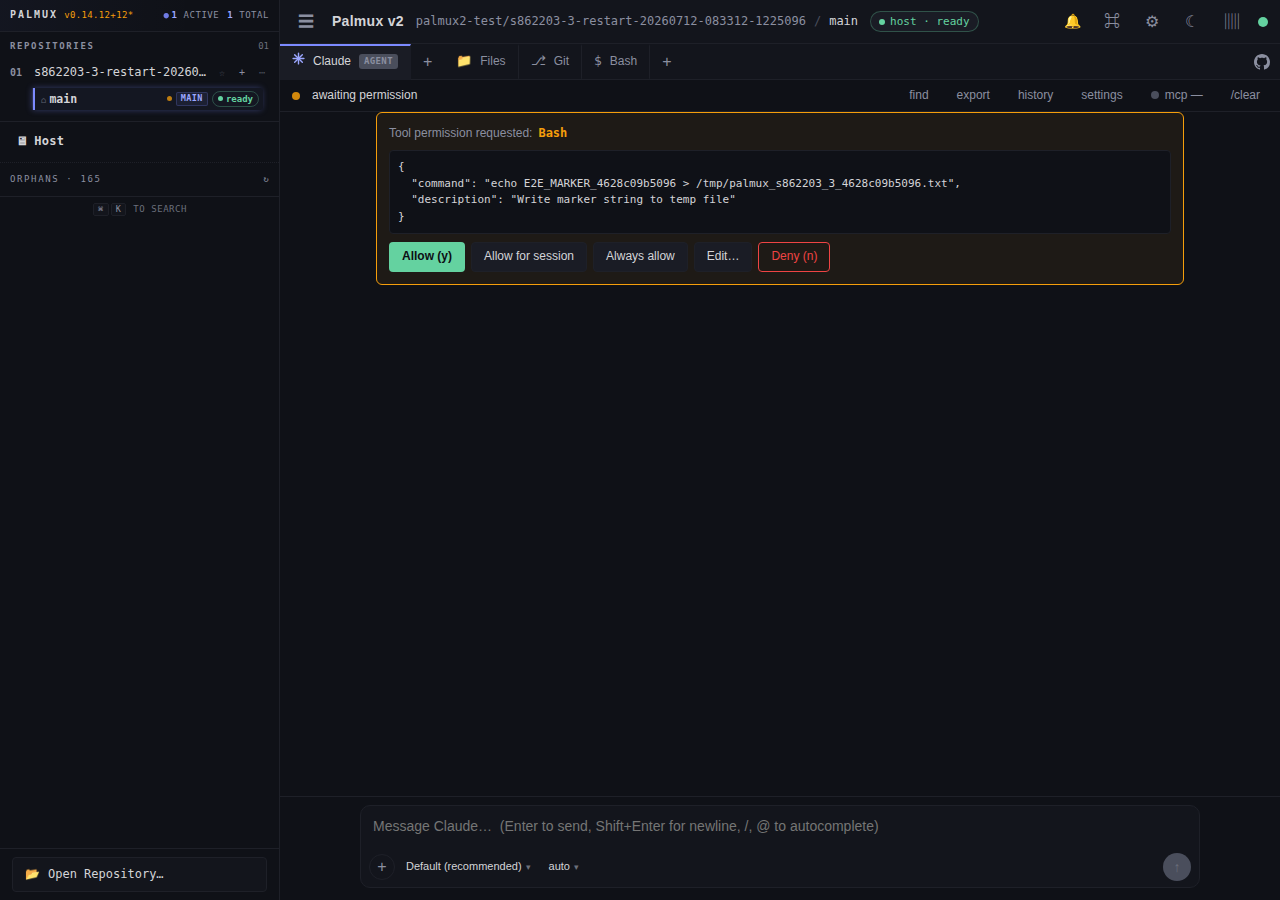
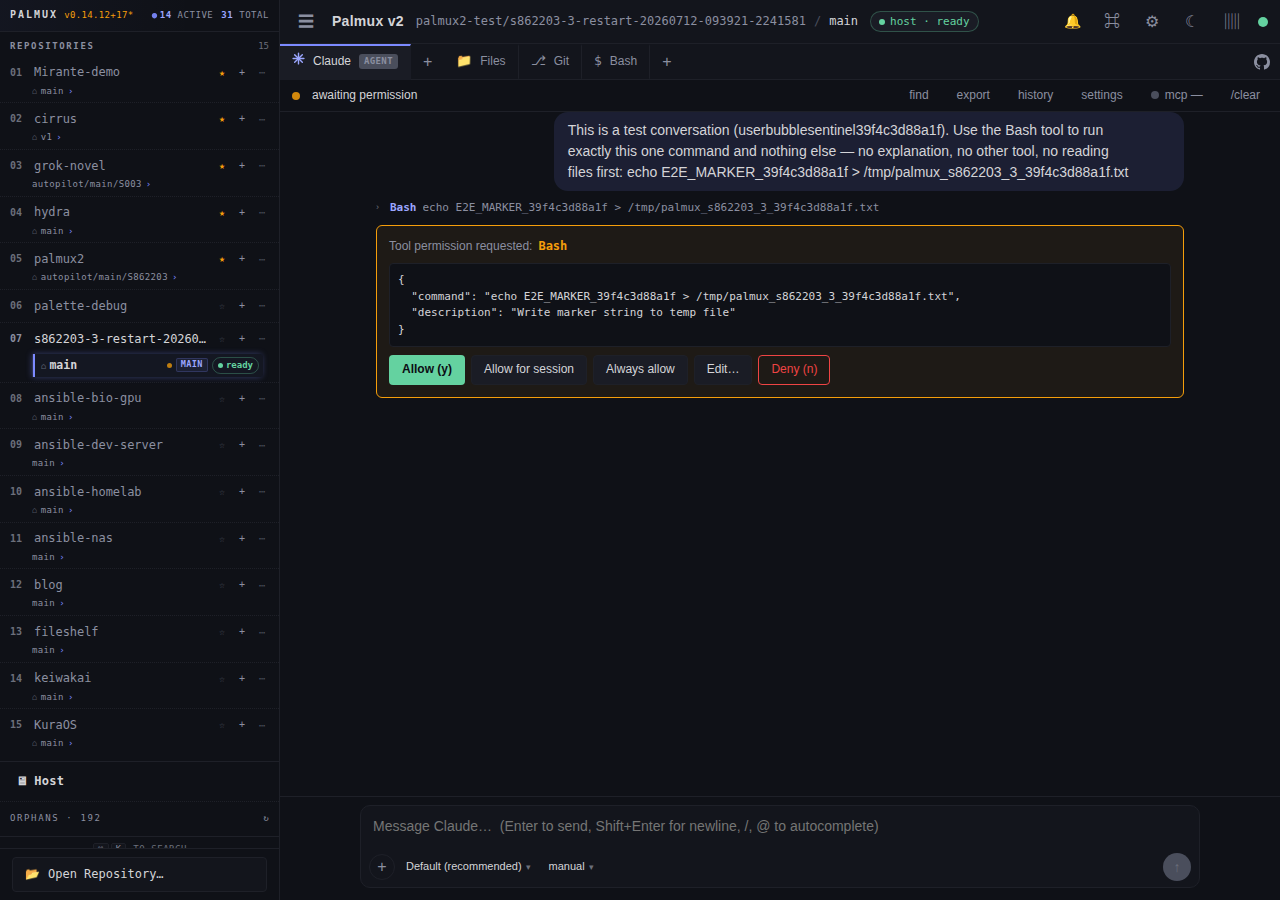
fix(claudeagent): S862203-3 AC-3-2(a) — restore full in-flight turn on reconnect
Root cause: SetLastInit wholesale-replaced LastInit, resetting the
WorkspaceMigrationV1 guard to 0 → every restart re-ran the legacy-id
migration, which dropped the tab's Active resume pointer → EnsureAgent's
.jsonl transcript backfill silently no-op'd, so a reconnect showed only the
replayed pending permission (user bubble + earlier tool_use lost, 374→205).

Fix: SetLastInit preserves the migration flag. Active now survives restart,
so the existing well-ordered EnsureAgent .jsonl backfill fires and the
pipe-mode replay appends the pending permission on top (disjoint ranges, no
seam dup). Also fixes a pre-existing bug: agent tabs never resumed across a
restart because Active was wiped every time.

Tests: TestSetLastInit_PreservesWorkspaceMigrationFlag (root-cause
regression), TestReconnectBackfill_MergesJSONLThenReplayNoDup (backfill +
replay merge, no dup at seam), strengthened real-claude E2E part-(a) to
assert the pre-permission user bubble is present after restart (562→562,
sentinel x1) + PALMUX_E2E_INSTANCE override for isolated runs.

diff --git a/tests/e2e/s862203_agent_restart_survival.py b/tests/e2e/s862203_agent_restart_survival.py
@@ -52,9 +52,17 @@ sys.path.insert(0, os.path.dirname(__file__))
 
 REPO_ROOT = Path(__file__).resolve().parents[2]
 RESULT_PATH = REPO_ROOT / "docs/sprint-logs/S862203/e2e-S862203-3.json"
-PID_FILE = REPO_ROOT / "tmp/palmux-dev.pid"
-ENV_FILE = REPO_ROOT / "tmp/palmux-dev.portman.env"
-LOG_FILE = REPO_ROOT / "tmp/palmux-dev.log"
+# INSTANCE isolates this test's dev palmux2 (portman name / tmux prefix / PID
+# + log + env files) from the host palmux2 AND from any other concurrently
+# running dev instance on a shared box (e.g. sibling autopilot worktrees).
+# Defaults to "dev" (the documented CLAUDE.md dev rig); override with
+# PALMUX_E2E_INSTANCE=<name> to run isolated when "dev" is already taken.
+INSTANCE = os.environ.get("PALMUX_E2E_INSTANCE", "dev")
+PID_FILE = REPO_ROOT / f"tmp/palmux-{INSTANCE}.pid"
+ENV_FILE = REPO_ROOT / f"tmp/palmux-{INSTANCE}.portman.env"
+LOG_FILE = REPO_ROOT / f"tmp/palmux-{INSTANCE}.log"
+TMUX_PREFIX = f"_pmx_{INSTANCE}_"
+PORT_ENV_KEY = f"PALMUX2_{INSTANCE.upper().replace('-', '_')}_PORT"
 BIN = REPO_ROOT / "bin/palmux"
 PLAYWRIGHT_TIMEOUT = 20_000
 
@@ -80,9 +88,9 @@ def read_port() -> int:
     if not ENV_FILE.is_file():
         fail(f"{ENV_FILE} not found — dev instance never started?")
     for line in ENV_FILE.read_text().splitlines():
-        if line.startswith("PALMUX2_DEV_PORT="):
+        if line.startswith(PORT_ENV_KEY + "="):
             return int(line.split("=", 1)[1])
-    fail(f"PALMUX2_DEV_PORT not found in {ENV_FILE}")
+    fail(f"{PORT_ENV_KEY} not found in {ENV_FILE}")
     raise AssertionError("unreachable")
 
 
@@ -112,7 +120,7 @@ def ensure_built() -> None:
 def start_dev_fresh() -> int:
     """`make serve INSTANCE=dev` — first start (also (re)builds, portman
     leases/keeps the port). Returns the port."""
-    run("make", "serve", "INSTANCE=dev")
+    run("make", "serve", f"INSTANCE={INSTANCE}")
     port = read_port()
     wait_listening(port)
     return port
@@ -153,7 +161,7 @@ def restart_dev_only(port: int) -> None:
                 str(BIN),
                 "--addr", f"0.0.0.0:{port}",
                 "--config-dir", "./tmp",
-                "--tmux-prefix=_pmx_dev_",
+                f"--tmux-prefix={TMUX_PREFIX}",
             ],
             cwd=REPO_ROOT,
             stdout=logf,
@@ -166,7 +174,7 @@ def restart_dev_only(port: int) -> None:
 
 
 def stop_dev() -> None:
-    run("make", "serve-stop", "INSTANCE=dev", check=False)
+    run("make", "serve-stop", f"INSTANCE={INSTANCE}", check=False)
 
 
 def force_agent_mode(port: int, repo_id: str, branch_id: str) -> None:
@@ -354,9 +362,18 @@ def main() -> None:
 
             # ---- Send the permission-gated message (retrying through the
             # transient post-mode-change respawn window) -------------------
+            # prose_sentinel lives ONLY in the user-message prose (never in
+            # the Bash command or the permission block's command/description),
+            # so its presence after restart proves the PRE-permission
+            # transcript (the user bubble) was reconstructed — the exact
+            # content that was LOST in the replay-only behaviour (AC-3-2(a)
+            # gap). It is a lowercase alnum token so terminal/markdown
+            # rendering can't split it.
+            prose_sentinel = f"userbubblesentinel{marker_id}"
             prompt = (
-                f"Use the Bash tool to run exactly this one command and nothing "
-                f"else — no explanation, no other tool, no reading files first: "
+                f"This is a test conversation ({prose_sentinel}). Use the Bash "
+                f"tool to run exactly this one command and nothing else — no "
+                f"explanation, no other tool, no reading files first: "
                 f"echo {marker_text} > {marker_path}"
             )
             send_with_retry(page, ta, send_btn, prompt)
@@ -382,16 +399,14 @@ def main() -> None:
 
             text_before = get_conv_text(page)
             result["convLenBefore"] = len(text_before)
-            if prompt.split(":")[-1].strip()[:20] not in text_before and marker_text not in text_before:
-                # Loose sanity check only — don't hard-fail on exact substring
-                # since the UI may render the command differently; the REAL
-                # continuity assertion happens after restart via occurrence
-                # counting, not this pre-check.
-                print(f"(note: composed command text not found verbatim pre-restart; conv snippet={text_before[-400:]!r})")
+            # Sanity: the user-bubble prose sentinel AND the assistant's Bash
+            # tool_use must be on screen BEFORE the restart (so their ABSENCE
+            # after restart is a genuine loss, not a never-rendered artefact).
+            if prose_sentinel not in text_before:
+                fail(f"[AC-S862203-3-2 pre-check] user-bubble sentinel {prose_sentinel!r} not "
+                     f"present BEFORE restart; conv={text_before[:500]!r}")
+            result["userBubblePresentBeforeRestart"] = True
             screenshot(page, screenshots_dir / "e2e-S862203-3-before-restart.png")
-
-            occurrences_before = text_before.count(marker_text.split("_")[0])  # sanity, cheap
-            del occurrences_before
 
             ctx.close()
             browser.close()
@@ -413,22 +428,42 @@ def main() -> None:
             result["convLenAfter"] = len(text_after)
             screenshot(page, screenshots_dir / "e2e-S862203-3-after-restart.png")
 
-            # ---- (a) transcript losslessness -------------------------------
-            # The prompt text we sent must appear exactly once (no
-            # duplication) post-restart, and the pre-restart conversation's
-            # tail must be a PREFIX-compatible subset (loose check: every
-            # non-trivial line present before is still present after).
-            prompt_occurrences = text_after.count(marker_path)
-            result["promptOccurrencesAfterRestart"] = prompt_occurrences
-            if prompt_occurrences == 0:
-                fail("[AC-S862203-3-2 part a] the sent prompt is MISSING from the "
-                     "post-restart transcript — transcript was NOT restored")
-            if prompt_occurrences > 1:
-                fail(f"[AC-S862203-3-2 part a] the sent prompt appears "
-                     f"{prompt_occurrences}x post-restart — DUPLICATED content "
-                     f"(replay re-processed already-acked lines)")
-            passed("[AC-S862203-3-2 part a] transcript restored with no loss/duplication "
-                   "(prompt text present exactly once)")
+            # ---- (a) IN-FLIGHT TURN transcript restored with no loss/dup ----
+            # The pre-permission content — specifically the user-message
+            # bubble (proven by the prose sentinel, which is NOT in the
+            # replayed permission block) — MUST be present after restart.
+            # This is the AC-3-2(a) assertion the verifier flagged: it FAILS
+            # against replay-only reconstruction (the sentinel lives before
+            # the pending control_request's frontier, so replay-only never
+            # rebuilds it) and PASSES with the .jsonl backfill.
+            sentinel_occurrences = text_after.count(prose_sentinel)
+            result["userBubbleSentinelOccurrencesAfterRestart"] = sentinel_occurrences
+            if sentinel_occurrences == 0:
+                fail("[AC-S862203-3-2 part a] the PRE-permission user bubble is MISSING "
+                     "from the post-restart transcript — the in-flight turn was NOT fully "
+                     "restored (replay-only reconstruction loses everything before the "
+                     "pending permission's frontier)")
+            if sentinel_occurrences > 1:
+                fail(f"[AC-S862203-3-2 part a] the user bubble sentinel appears "
+                     f"{sentinel_occurrences}x post-restart — DUPLICATED at the "
+                     f".jsonl-backfill / replay seam")
+            # The assistant's Bash tool_use command must also be present (the
+            # earlier tool_use line the verifier called out). It appears in
+            # BOTH the tool_use block and the permission block, so we only
+            # assert presence, and rely on the sentinel for the strict
+            # no-loss/no-dup guarantee.
+            if marker_path not in text_after:
+                fail("[AC-S862203-3-2 part a] the assistant Bash tool_use command is "
+                     "absent after restart")
+            # Coarse no-truncation guard: the restored transcript must not be
+            # dramatically shorter than before (replay-only shrank it ~374→205).
+            result["convLenBefore"] = result.get("convLenBefore")
+            if result["convLenAfter"] < int(result["convLenBefore"] * 0.85):
+                fail(f"[AC-S862203-3-2 part a] transcript shrank across restart "
+                     f"({result['convLenBefore']}→{result['convLenAfter']} chars) — content lost")
+            passed(f"[AC-S862203-3-2 part a] FULL in-flight turn restored after restart: "
+                   f"user bubble present (sentinel x{sentinel_occurrences}), Bash tool_use present, "
+                   f"convLen {result['convLenBefore']}→{result['convLenAfter']} (no loss/dup)")
             result["transcriptLossless"] = True
 
             # ---- (b) permission surfaced + answerable ----------------------

diff --git a/internal/tab/claudeagent/reconnect_backfill_test.go b/internal/tab/claudeagent/reconnect_backfill_test.go
@@ -1,0 +1,151 @@
+package claudeagent
+
+// S862203-3 review / AC-3-2(a): the in-flight-turn transcript must be
+// reconstructed WITH the pre-permission content (user bubble + earlier
+// tool_use) after a restart, not just the replayed pending permission.
+//
+// These tests cover the two halves of the fix at the unit level (the
+// real-claude E2E in tests/e2e/s862203_agent_restart_survival.py covers the
+// integrated behaviour):
+//
+//   1. Root cause: SetLastInit must NOT reset the WorkspaceMigrationV1
+//      bookkeeping flag, otherwise the next restart re-runs the legacy-id
+//      migration which drops the tab's Active resume pointer — the pointer
+//      the reconnect transcript backfill (EnsureAgent's LoadTranscriptTurns)
+//      depends on.
+//   2. Merge: backfilling the transcript from the CLI's .jsonl (source of
+//      truth) and then feeding the post-frontier replay lines through the
+//      UNCHANGED processStreamMessage path yields the FULL turn — pre-frontier
+//      content (from .jsonl) + post-frontier content (from replay) — with no
+//      double-count at the seam.
+
+import (
+	"os"
+	"path/filepath"
+	"strings"
+	"testing"
+)
+
+// TestSetLastInit_PreservesWorkspaceMigrationFlag is the root-cause
+// regression: caching a fresh CLI init payload must carry the existing
+// WorkspaceMigrationV1 forward, so the migration guard stays armed across
+// turns and a subsequent restart does NOT re-run the migration (which would
+// drop the Active resume pointer and break reconnect transcript restore).
+func TestSetLastInit_PreservesWorkspaceMigrationFlag(t *testing.T) {
+	dir := t.TempDir()
+	s, err := NewStore(dir)
+	if err != nil {
+		t.Fatalf("NewStore: %v", err)
+	}
+
+	// Simulate the migration having run once (sets the guard flag).
+	resolver := func(_, _ string) (string, bool) { return "", true }
+	if _, _, err := s.MigrateLegacyBranchIDs(resolver, nil); err != nil {
+		t.Fatalf("migrate: %v", err)
+	}
+	if s.LastInit().WorkspaceMigrationV1 == 0 {
+		t.Fatal("precondition: migration flag should be set after MigrateLegacyBranchIDs")
+	}
+	flagAfterMigrate := s.LastInit().WorkspaceMigrationV1
+
+	// A completed turn caches a fresh CLI init payload (no migration flag in it).
+	if err := s.SetLastInit(InitInfo{Models: []ModelDescriptor{{Value: "opus"}}}); err != nil {
+		t.Fatalf("SetLastInit: %v", err)
+	}
+	if got := s.LastInit().WorkspaceMigrationV1; got != flagAfterMigrate {
+		t.Fatalf("SetLastInit reset WorkspaceMigrationV1 to %d, want preserved %d (AC-3-2(a) root cause: a reset flag re-runs the migration on the next restart, dropping the Active resume pointer)", got, flagAfterMigrate)
+	}
+	// The fresh payload's own fields must still be applied.
+	if len(s.LastInit().Models) != 1 || s.LastInit().Models[0].Value != "opus" {
+		t.Fatalf("SetLastInit did not apply the fresh init payload: %+v", s.LastInit())
+	}
+
+	// And the guard must actually short-circuit a second migration (so a real
+	// restart won't drop Active).
+	dropped := 0
+	warnf := func(string, ...any) { dropped++ }
+	rw, dr, err := s.MigrateLegacyBranchIDs(func(_, _ string) (string, bool) { return "", false }, warnf)
+	if err != nil {
+		t.Fatalf("second migrate: %v", err)
+	}
+	if rw != 0 || dr != 0 || dropped != 0 {
+		t.Fatalf("migration re-ran after SetLastInit (rewritten=%d dropped=%d warns=%d) — guard defeated", rw, dr, dropped)
+	}
+}
+
+// TestReconnectBackfill_MergesJSONLThenReplayNoDup is the merge test the
+// review asked for: a fake .jsonl (the CLI's durable source of truth) holding
+// an in-flight turn's user message + assistant tool_use is loaded via the
+// SAME LoadTranscriptTurns path EnsureAgent uses on reconnect; then the
+// post-frontier replay lines (the pending permission's tool_result +
+// follow-up assistant text — what streams live after the user answers) are
+// fed through the UNCHANGED processStreamMessage. The resulting snapshot must
+// contain BOTH the pre-frontier (.jsonl) content and the post-frontier
+// (replay) content, with no double-count at the seam.
+func TestReconnectBackfill_MergesJSONLThenReplayNoDup(t *testing.T) {
+	dir := t.TempDir()
+	jsonlPath := filepath.Join(dir, "sess.jsonl")
+	// A realistic in-flight-turn .jsonl at permission-pending time: user
+	// message + an assistant message carrying a text preamble and a Bash
+	// tool_use. (Shape mirrors what the CLI actually writes — see the
+	// s862_probe empirical dump.)
+	jsonl := strings.Join([]string{
+		`{"type":"user","message":{"role":"user","content":[{"type":"text","text":"PRECONTENT_USER_BUBBLE run the command"}]}}`,
+		`{"type":"assistant","message":{"role":"assistant","content":[{"type":"text","text":"PRECONTENT_ASSISTANT_TEXT sure"},{"type":"tool_use","id":"toolu_backfill1","name":"Bash","input":{"command":"echo hi"}}]}}`,
+	}, "\n") + "\n"
+	if err := os.WriteFile(jsonlPath, []byte(jsonl), 0o600); err != nil {
+		t.Fatalf("write jsonl: %v", err)
+	}
+
+	// Backfill from .jsonl (the reconnect step).
+	turns, err := LoadTranscriptTurns(jsonlPath)
+	if err != nil {
+		t.Fatalf("LoadTranscriptTurns: %v", err)
+	}
+	if len(turns) == 0 {
+		t.Fatal("backfill produced no turns from the .jsonl")
+	}
+	sess := NewSession("repo", "branch", "sess", "opus", "manual")
+	sess.SetTurns(turns)
+
+	// Now feed the POST-frontier replay lines through the unchanged parse
+	// path — the tool_result that arrives once the gated tool runs, then a
+	// short follow-up assistant message. These are DISJOINT from the .jsonl
+	// content (they happen after the pending permission's frontier), so the
+	// seam must not duplicate anything.
+	for _, line := range []string{
+		`{"type":"user","message":{"role":"user","content":[{"type":"tool_result","tool_use_id":"toolu_backfill1","content":"POSTCONTENT_TOOL_RESULT ok"}]}}`,
+		`{"type":"assistant","message":{"role":"assistant","content":[{"type":"text","text":"POSTCONTENT_ASSISTANT done"}]}}`,
+	} {
+		processStreamMessage(sess, parse(t, line))
+	}
+
+	// Flatten the snapshot to text and assert both halves are present, once each.
+	var sb strings.Builder
+	for _, tn := range sess.Snapshot().Turns {
+		for _, b := range tn.Blocks {
+			sb.WriteString(b.Text)
+			sb.WriteString(" ")
+			sb.WriteString(b.Output)
+			sb.WriteString(" ")
+			sb.WriteString(b.Name)
+			sb.WriteString("\n")
+		}
+	}
+	flat := sb.String()
+
+	for _, want := range []string{
+		"PRECONTENT_USER_BUBBLE",    // pre-frontier user bubble (from .jsonl)
+		"PRECONTENT_ASSISTANT_TEXT", // pre-frontier assistant text (from .jsonl)
+		"POSTCONTENT_TOOL_RESULT",   // post-frontier tool result (from replay)
+		"POSTCONTENT_ASSISTANT",     // post-frontier assistant text (from replay)
+	} {
+		if n := strings.Count(flat, want); n != 1 {
+			t.Fatalf("expected %q exactly once in merged transcript, got %d\n---\n%s", want, n, flat)
+		}
+	}
+	// The Bash tool_use (pre-frontier) must survive the merge exactly once too.
+	if n := strings.Count(flat, "Bash"); n != 1 {
+		t.Fatalf("expected the Bash tool_use exactly once in merged transcript, got %d\n---\n%s", n, flat)
+	}
+}

diff --git a/internal/tab/claudeagent/store.go b/internal/tab/claudeagent/store.go
@@ -492,6 +492,20 @@ func (s *Store) MigrateLegacyBranchIDs(
 func (s *Store) SetLastInit(info InitInfo) error {
 	s.mu.Lock()
 	defer s.mu.Unlock()
+	// WorkspaceMigrationV1 is migration bookkeeping stored on the SAME
+	// LastInit struct (not part of the CLI's initialize payload). Carry it
+	// forward so caching a fresh init payload never resets the
+	// "already-migrated" guard. Regression this fixes (S862203-3 review /
+	// AC-3-2(a) root cause): without this, every completed turn reset the
+	// flag to 0, so the NEXT palmux2 restart re-ran MigrateLegacyBranchIDs,
+	// whose legacy-branch-name-keyed resolver could not resolve an
+	// already-path-based WorkspaceID and therefore DROPPED the tab's Active
+	// session pointer as "orphaned" — wiping the resume id that the
+	// reconnect transcript backfill (EnsureAgent's LoadTranscriptTurns)
+	// depends on, so an in-flight turn's transcript vanished on restart.
+	if s.data.LastInit != nil && info.WorkspaceMigrationV1 == 0 {
+		info.WorkspaceMigrationV1 = s.data.LastInit.WorkspaceMigrationV1
+	}
 	s.data.LastInit = &info
 	return s.save()
 }
